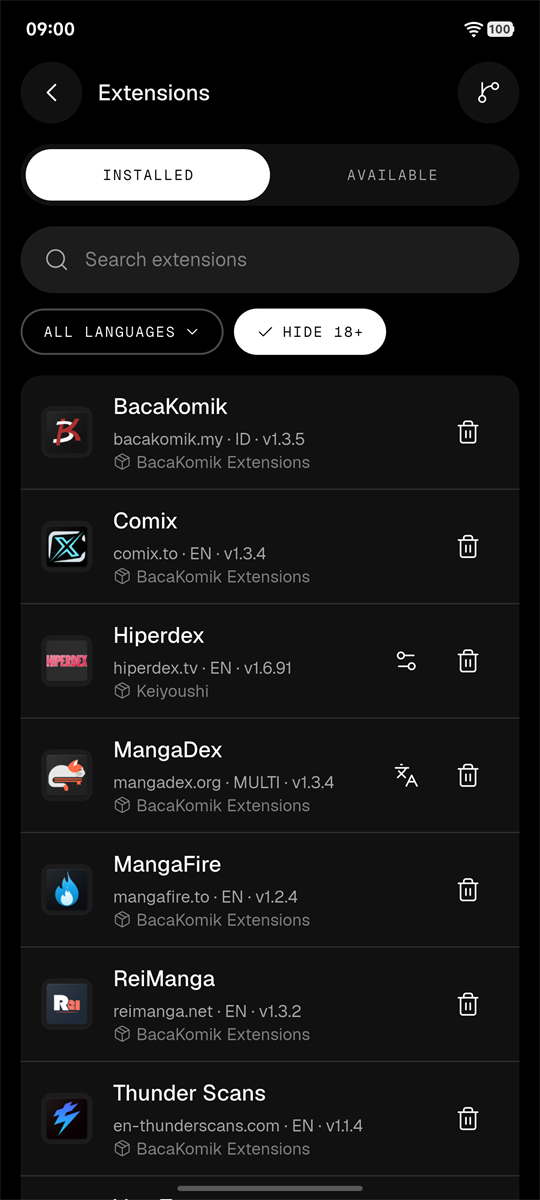
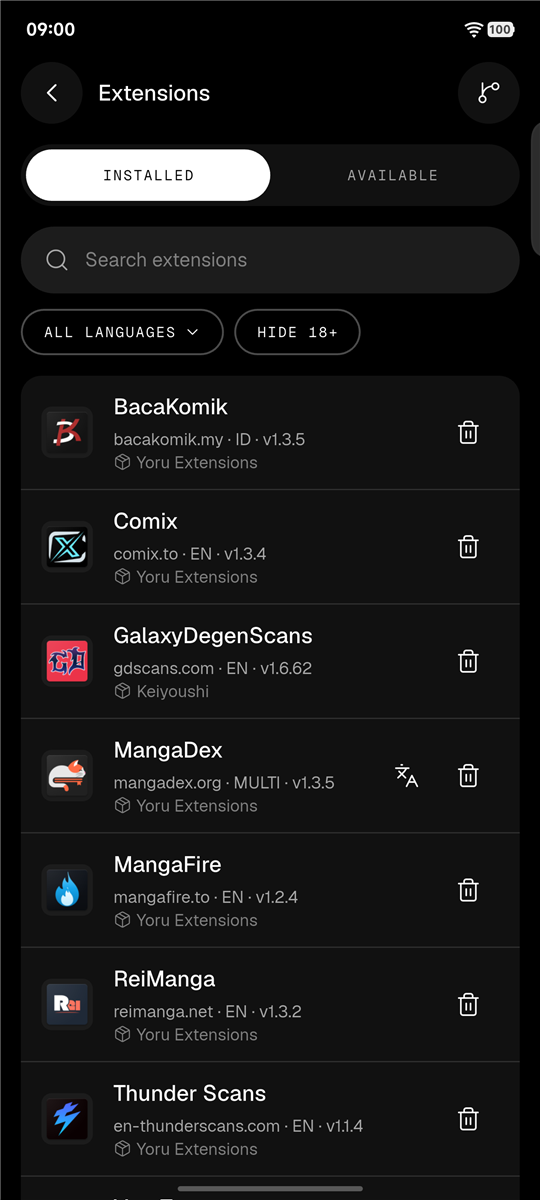
docs: refresh the Sources, Extensions and More screenshots
Taken in demo mode at 09:00. The Import from Mihon screenshot is gone.

diff --git a/README.md b/README.md
@@ -27,9 +27,9 @@ Fedora RPM installs can update from inside the app: approve the system's adminis
 |---|---|---|---|
 | <img src="screenshot/filter.png" width="200" alt="Filter sheet: sort, format, status and genres"> | <img src="screenshot/detail.png" width="200" alt="Comic details with source, stats and synopsis"> | <img src="screenshot/reader.png" width="200" alt="Reader with chapter bar and page meter"> | <img src="screenshot/bookmark.png" width="200" alt="Bookmarks with language and new chapter badges and read meter"> |
 
-| History | Extensions | Import from Mihon | More |
-|---|---|---|---|
-| <img src="screenshot/history.png" width="200" alt="Reading history grouped by day, with the source"> | <img src="screenshot/extensions.png" width="200" alt="Installed extensions"> | <img src="screenshot/mihon-import.png" width="200" alt="Import from a Mihon backup, per source"> | <img src="screenshot/more.png" width="200" alt="Stats, extensions, library, backup and sync"> |
+| History | Extensions | More |
+|---|---|---|
+| <img src="screenshot/history.png" width="200" alt="Reading history grouped by day, with the source"> | <img src="screenshot/extensions.png" width="200" alt="Installed extensions"> | <img src="screenshot/more.png" width="200" alt="Stats, incognito mode, extensions, source migration, DNS over HTTPS and library"> |
 
 | Download chapters | Downloads | Light theme |
 |---|---|---|
